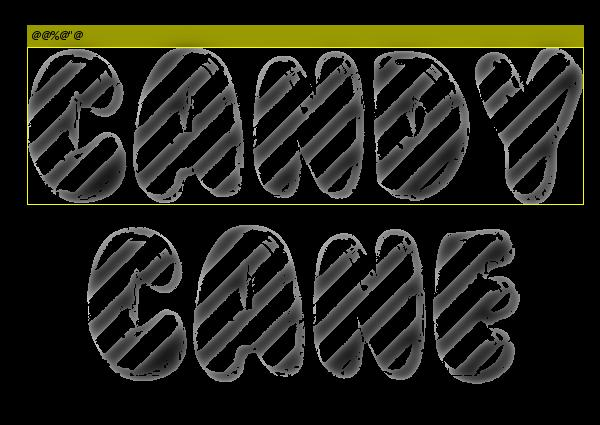
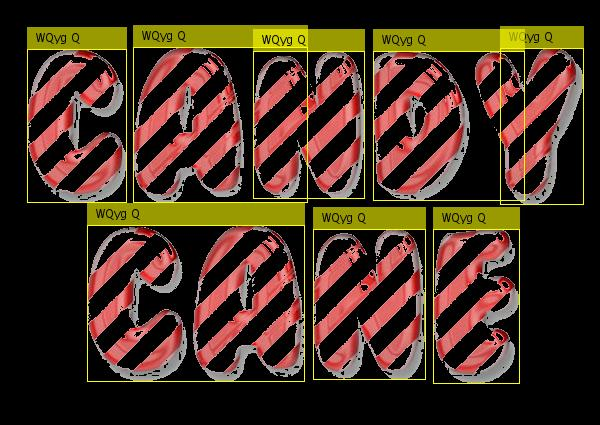
add detection

diff --git a/blur_test.m b/blur_test.m
@@ -1,0 +1,111 @@
+close all
+clear all
+%%%%%%  Simulate blur effect   %%%%%%%
+
+
+%%%% This file creates a blurred image and then de-blurs it using weiner
+%%%% filter
+
+%%%% The output of this file is later used in the OCR program to test the
+%%%% working of a deblurred image
+
+character = 'ABCDEFGHIJKLMNOPQRSTUVWXYZabcdefghijklmnopqrstuvwxyz0123456789';
+I = im2double(imread('.jpg'));
+figure,imshow(I);
+title('Original Image');
+
+LEN = 5;
+THETA = 40;
+PSF = fspecial('motion', LEN, THETA);
+blurred = imfilter(I, PSF, 'conv', 'circular');
+% figure, imshow(blurred)
+% title('Simulate Blur');
+
+noise_mean = 0;
+noise_var = 0.000001;
+blurred_noisy = imnoise(blurred, 'gaussian', ...
+                        noise_mean, noise_var);
+figure, imshow(blurred_noisy)
+title('Simulate Blur and Noise');
+
+estimated_nsr = 0;
+wnr2 = deconvwnr(blurred_noisy, PSF, estimated_nsr);
+figure, imshow(wnr2)
+title('Restoration of Blurred, Noisy Image Using NSR = 0');
+
+estimated_nsr = noise_var / var(I(:));
+wnr3 = deconvwnr(blurred_noisy, PSF, estimated_nsr);
+figure, imshow(wnr3)
+title('Restoration of Blurred, Noisy Image Using Estimated NSR');
+
+Igray = rgb2gray(wnr3);
+figure;
+imshow(Igray)
+title('Gray Image');
+
+% use median filter
+imagen = medfilt2(Igray,[5 5]);
+figure;
+imshow(imagen);
+title('Median Filter');
+
+% use adaptive histogram equalisation
+imagen = adapthisteq(imagen);
+figure;
+imshow(imagen);
+title('Adaptive Histogram Equalisation');
+
+% contrast stretching
+imagen = imadjust(imagen);
+figure;
+imshow(imagen);
+title('Contrast Stretching');
+
+% Convert to binary image
+Ibw = imbinarize(imagen);
+figure;
+imshow(Ibw)
+title('Convert to binary image');
+
+% Edge detection
+Iedge = edge(uint8(Ibw));
+figure;
+imshow(Iedge)
+title('Edge detection');
+
+% Image Dilation
+se = strel('square',2);
+Iedge2 = imdilate(Iedge, se);
+figure;
+imshow(Iedge2)
+title('Image Dilation');
+
+%Image Filling
+Ifill= imfill(Iedge2,'holes');
+figure;
+imshow(Ifill)
+title('Image Filling');
+
+
+
+% TEXT DETECTION ZONE %
+results = ocr(Ifill,'CharacterSet', character, 'TextLayout','Block');
+results.Text
+
+% Sort the character confidences.
+[sortedConf, sortedIndex] = sort(results.CharacterConfidences, 'descend');
+
+% Keep indices associated with non-NaN confidences values.
+indexesNaNsRemoved = sortedIndex( ~isnan(sortedConf) );
+
+% Get the top ten indexes.
+topTenIndexes = indexesNaNsRemoved(1:end);
+
+% Select the top ten results.
+digits = num2cell(results.Text(topTenIndexes));
+bboxes = results.CharacterBoundingBoxes(topTenIndexes, :);
+
+Idigits = insertObjectAnnotation(I,'rectangle',bboxes,digits);
+
+figure; 
+imshow(Idigits);

diff --git a/test.m b/test.m
@@ -1,6 +1,9 @@
 clear all;
 close all;
 
+character = 'ABCDEFGHIJKLMNOPQRSTUVWXYZabcdefghijklmnopqrstuvwxyz0123456789';
+
+
 [x, y] = meshgrid(-128:127, -128:127);
 z=sqrt(x.^2+y.^2);
 c=z>15;
@@ -50,15 +53,25 @@ F = ifftshift(Fshhb);
 f = ifft2(F);
 f = squeeze(f(:, :, 1));
 
-figure;imshow(real(f), []);title('reconstruct img');
+figure;imshow(f, []);title('reconstruct img');
 
-result = ocr(real(f));
-word=result.Words{1};
-wordBox = result.WordBoundingBoxes(1.0,:);
-name=insertObjectAnnotation(real(f), 'rectangle', wordBox, word);
+result = ocr(f, 'CharacterSet', character,'TextLayout','Block');
+word=result.Text;
+word=regexprep(word,'[\n\r]+', '');
+[sortedConf, sortedIndex] = sort(result.CharacterConfidences, 'descend');
+indexesNaNsRemoved = sortedIndex( ~isnan(sortedConf) );
+
+% Get the top ten indexes.
+topTenIndexes = indexesNaNsRemoved(1:end);
+digits = num2cell(result.Text(topTenIndexes));
+
+
+wordBox = result.CharacterBoundingBoxes(topTenIndexes, :);
+name=insertObjectAnnotation(real(rgb), 'rectangle', wordBox, word);
 figure;imshow(name);
 
 imwrite(name, 'test.jpg');
+
 % 
 % [bw, rgb]=bg_remove(name)
 % figure, imshow(bw), title('bw_name');
